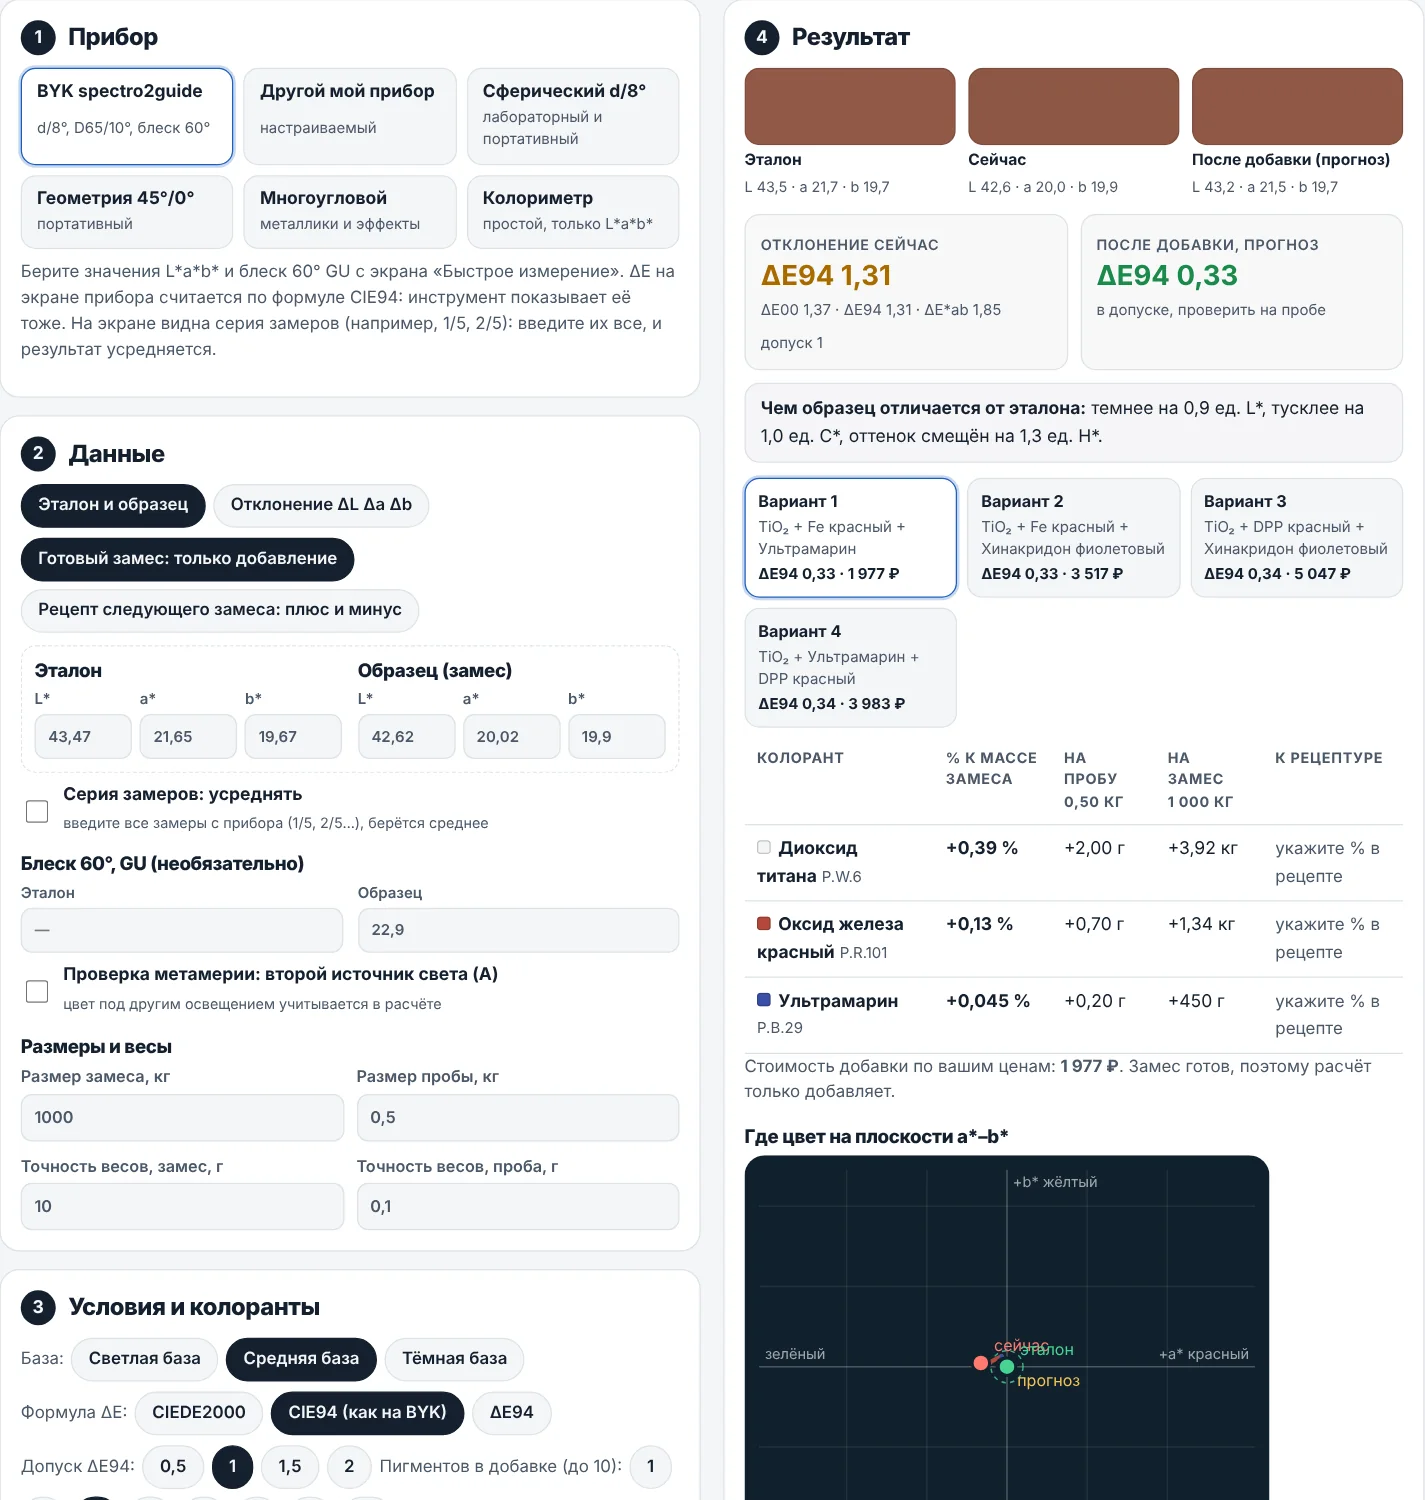
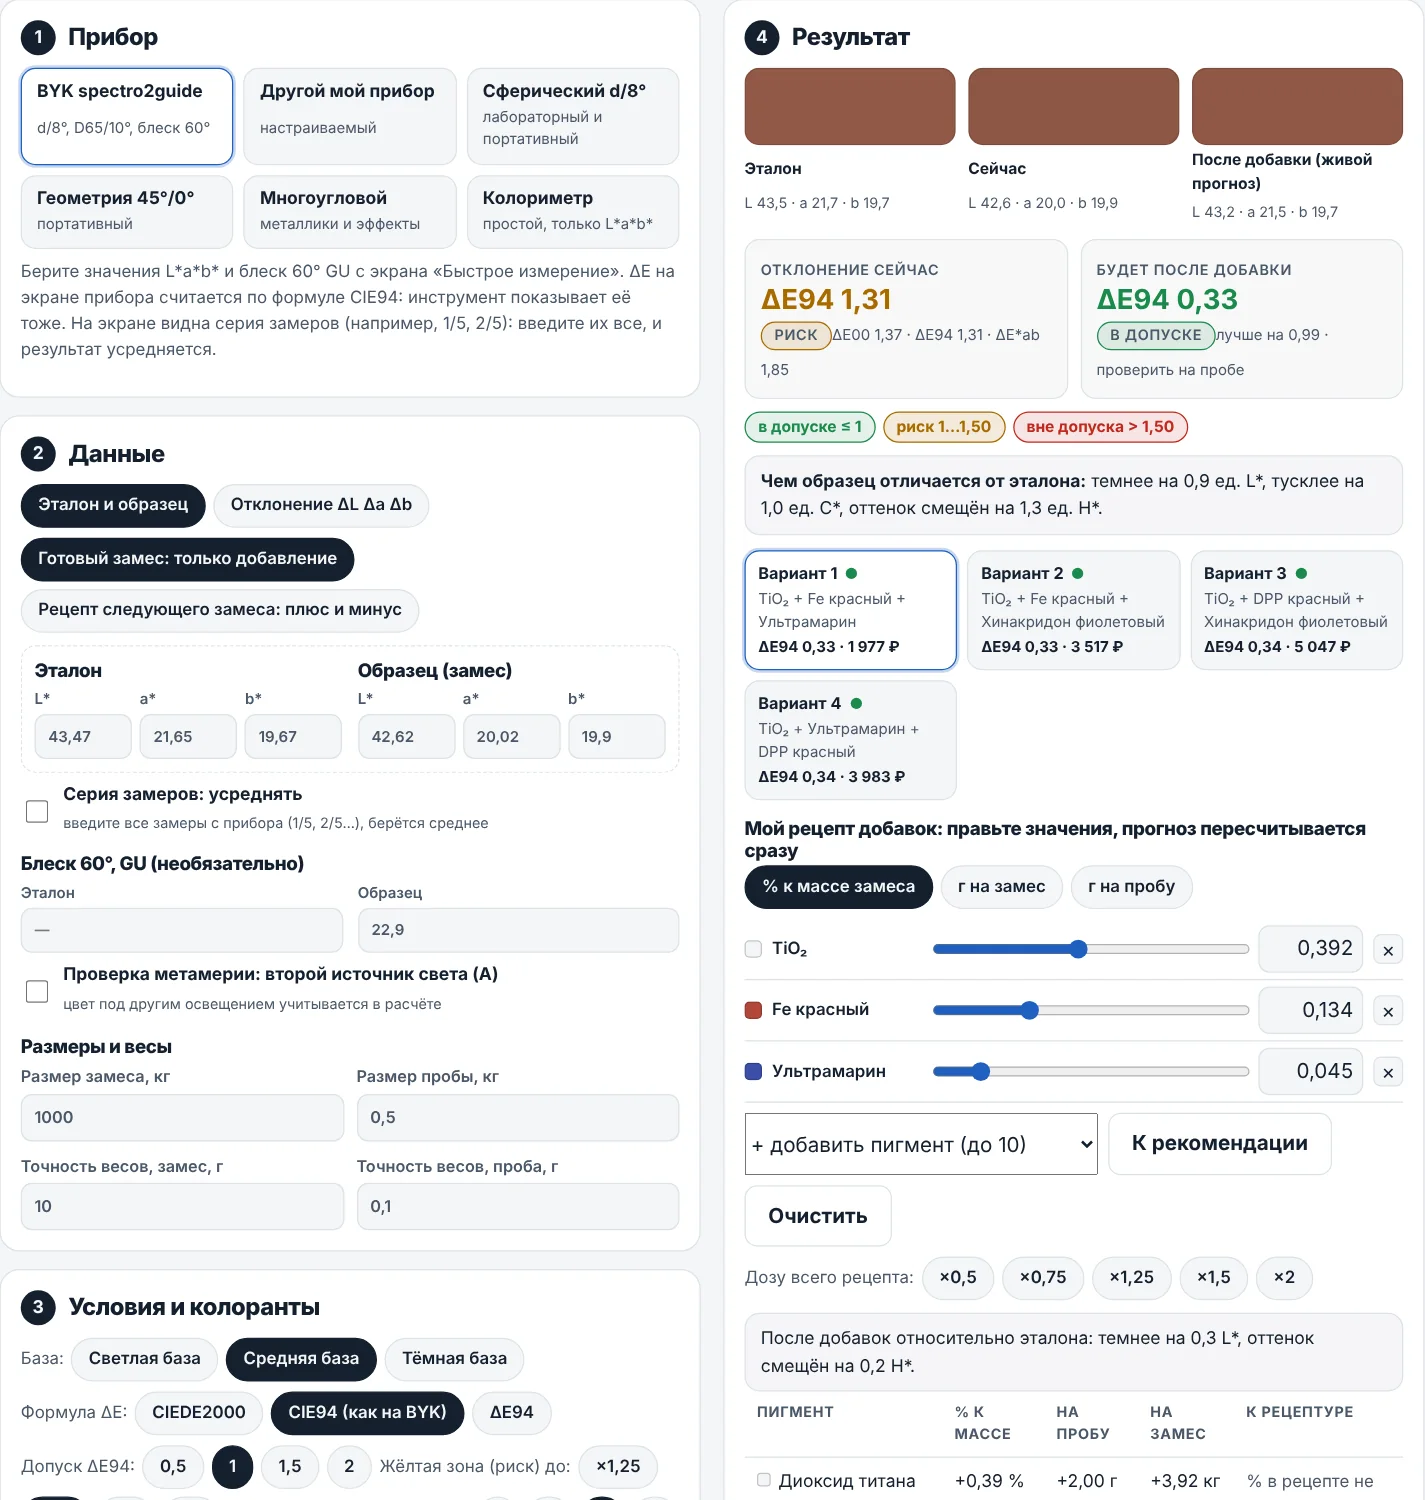
Add files via upload

diff --git a/correction/index.html b/correction/index.html
@@ -30,7 +30,7 @@ nav{display:flex;gap:16px;font-size:14px;align-items:center;flex-wrap:wrap}nav a
 .chips{display:flex;flex-wrap:wrap;gap:8px;margin-top:16px}.chips span{border:1px solid var(--line);background:var(--card);border-radius:999px;padding:5px 12px;font-size:13px;color:var(--ink2)}
 .step{display:flex;gap:10px;align-items:center;margin:0 0 10px}.step b{width:28px;height:28px;border-radius:50%;background:var(--ink);color:var(--paper);display:grid;place-items:center;font-size:14px;flex:none}.step h3{margin:0}
 .panel{background:var(--card);border:1px solid var(--line);border-radius:16px;padding:16px}
-.layout{display:grid;grid-template-columns:minmax(0,1fr) minmax(0,1fr);gap:18px;margin-top:18px;align-items:start}@media(max-width:960px){.layout{grid-template-columns:1fr}}
+.layout{display:grid;grid-template-columns:minmax(0,1fr) minmax(0,1fr);gap:18px;margin-top:18px;align-items:start}@media(max-width:960px){.layout{grid-template-columns:minmax(0,1fr)}}
 .stack{display:grid;gap:14px}
 .insts{display:grid;grid-template-columns:repeat(auto-fill,minmax(150px,1fr));gap:8px}
 .ic{text-align:left;border:1px solid var(--line);background:var(--paper);border-radius:12px;padding:10px 12px;display:grid;gap:2px}.ic b{font-size:14px;line-height:1.2}.ic span{font-size:12px;color:var(--ink2)}.ic.on{border-color:var(--b);box-shadow:0 0 0 2px color-mix(in srgb,var(--b) 25%,transparent);background:var(--card)}
@@ -69,6 +69,14 @@ footer{padding:44px 0 56px;border-top:1px solid var(--line)}
 body.pp>*:not(main){display:none!important}body.pp main>section:not(#protoS){display:none!important}body.pp #protoS{display:block!important;border:0}body.pp .act{display:none}
 @media print{body:not(.pp) header.top{display:none}}
 .plgrid{display:grid;grid-template-columns:repeat(auto-fill,minmax(210px,1fr));gap:8px;margin:12px 0}.plr{display:grid;grid-template-columns:16px 1fr 82px;gap:8px;align-items:center;font-size:13.5px;border:1px solid var(--line);border-radius:10px;padding:6px 8px;background:var(--paper)}.plr i{width:14px;height:14px;border-radius:4px;border:1px solid #0003}.plr input{padding:5px 7px}
+.zb{display:inline-block;border-radius:999px;padding:2px 10px;font-size:12.5px;font-weight:700;border:1px solid}.z-ok{color:var(--ok);border-color:var(--ok);background:color-mix(in srgb,var(--ok) 12%,transparent)}.z-warn{color:var(--warn);border-color:var(--warn);background:color-mix(in srgb,var(--warn) 14%,transparent)}.z-bad{color:var(--bad);border-color:var(--bad);background:color-mix(in srgb,var(--bad) 12%,transparent)}
+.zt-ok{color:var(--ok)}.zt-warn{color:var(--warn)}.zt-bad{color:var(--bad)}.zlegend{display:flex;gap:6px;flex-wrap:wrap;margin-top:10px}.kpi .zb{margin:2px 0}
+.zd{display:inline-block;width:9px;height:9px;border-radius:50%;margin-left:4px}.zd.z-ok{background:var(--ok)}.zd.z-warn{background:#e29a12}.zd.z-bad{background:var(--bad)}
+.lr{display:grid;grid-template-columns:14px 118px 1fr 84px 24px;gap:8px;align-items:center;padding:5px 0;border-bottom:1px solid var(--line)}@media(max-width:560px){.lr{grid-template-columns:14px 1fr 84px 24px}.lr input[type=range]{grid-column:1/-1;order:5}}
+.lr i{width:14px;height:14px;border-radius:4px;border:1px solid #0003}.lr .ln{font-size:13.5px;font-weight:600}.lr input[type=range]{width:100%;accent-color:var(--b)}.lr .lv{padding:5px 7px;text-align:right}.lx{border:1px solid var(--line);background:var(--paper);border-radius:6px;width:24px;height:24px;line-height:1;padding:0}
+.pbar{display:flex;justify-content:space-between;align-items:center;gap:8px;flex-wrap:wrap;margin:16px 0 6px}.plotw svg{width:100%;height:auto;display:block;border-radius:14px}.plotw{user-select:none}.doseb svg{width:100%;height:auto;display:block}
+select{max-width:100%}
+.stack,.panel{min-width:0}.xw{max-width:100%;overflow-x:auto}.panel .tab{min-width:0}#calTab .tab{min-width:420px}#proto{max-width:100%;overflow-x:auto}.tab.pt{min-width:0}.tab.pt td,.tab.pt th{padding:6px 8px}.insts{grid-template-columns:repeat(auto-fill,minmax(min(150px,100%),1fr))}
 </style>
 </head>
 <body>
@@ -81,7 +89,7 @@ body.pp>*:not(main){display:none!important}body.pp main>section:not(#protoS){dis
   <h1>Коррекция цвета: <span>что и сколько добавить</span></h1>
   <p class="lead" style="margin-top:12px">Введите значения со спектрофотометра (L*a*b* эталона и образца или готовое отклонение), размер замеса или пробы и, если нужно, содержание пигмента в рецептуре. Инструмент подберёт добавки, предложит несколько вариантов с ценой и покажет прогноз. После добавки введите новый замер, и модель сама уточнится под ваш замес. Замес уже сделан, поэтому по умолчанию расчёт только добавляет.</p>
   <div class="chips"><span>профиль BYK spectro2guide и ещё 5 типов приборов</span><span>до 10 пигментов в добавке</span><span>серия замеров и блеск</span><span>CIEDE2000</span><span>самообучение по итерациям</span><span>варианты с ценой</span><span>метамерия</span><span>протокол и история</span><span>данные только в браузере</span></div>
-  <div class="act"><button class="btn" data-demo="0" type="button">Пример с прибора: красный</button><button class="btn ghost" data-demo="1" type="button">Пример: большое отклонение</button><button class="btn ghost" data-demo="2" type="button">Пример: синий</button><a class="btn ghost" href="#how">Как правильно замерить</a></div><div class="tabs"><a href="#tool">Расчёт</a><a href="#plan">Свои добавки</a><a href="#iter">Итерации</a><a href="#histS">История</a><a href="#calS">Калибровка</a><a href="#protoS">Протокол</a></div>
+  <div class="act"><button class="btn" data-demo="0" type="button">Пример с прибора: красный</button><button class="btn ghost" data-demo="1" type="button">Пример: большое отклонение</button><button class="btn ghost" data-demo="2" type="button">Пример: синий</button><a class="btn ghost" href="#how">Как правильно замерить</a></div><div class="tabs"><a href="#tool">Расчёт</a><a href="#iter">Итерации</a><a href="#histS">История</a><a href="#calS">Калибровка</a><a href="#protoS">Протокол</a></div>
 </div></section>
 
 <section id="tool"><div class="wrap">
@@ -94,9 +102,6 @@ body.pp>*:not(main){display:none!important}body.pp main>section:not(#protoS){dis
     <div class="stack" style="position:sticky;top:70px"><div class="panel"><div class="step"><b>4</b><h3>Результат</h3></div><div id="res"></div></div></div>
   </div>
 </div></section>
-
-<section id="plan"><div class="wrap"><h2>Свои добавки: что будет, если добавить моё</h2><p class="lead">Введите, сколько какого пигмента вы планируете добавить (в %, граммах на замес или граммах на пробу). Инструмент сразу покажет прогноз цвета, ΔE, отличие от эталона и стоимость. Если до допуска не хватает, предложит, что добавить ещё. Можно взять за основу рекомендацию расчёта и поправить её.</p>
-<div class="layout" style="margin-top:14px"><div class="panel"><div class="step"><b>A</b><h3>Мой план добавок</h3></div><div id="planBox"></div></div><div class="panel"><div class="step"><b>B</b><h3>Прогноз</h3></div><div id="planOut"></div></div></div></div></section>
 
 <section id="iter"><div class="wrap"><h2>Итерации: добавили, замерили, модель уточнилась</h2><p class="lead">Нажмите «Применить как шаг» в результате, добавьте колоранты в замес и введите новый замер. Инструмент сравнит прогноз с фактом, уточнит чувствительности использованных колорантов и сразу пересчитает следующий шаг. Так коррекция сходится за меньшее число шагов.</p><div class="panel" style="margin-top:14px"><div id="steps"></div></div></div></section>
 

diff --git a/index.html b/index.html
@@ -842,7 +842,7 @@ body.pm main>section.cur{display:block}
     <figure class="shot" style="margin-top:22px"><a href="correction/index.html"><img src="img/system/color-correction-tool.webp" alt="Инструмент коррекции цвета: выбор прибора, данные, колоранты, варианты добавок с ценой и прогноз" loading="lazy"></a><figcaption>Скриншот инструмента: прибор, данные, варианты добавок с ценой, прогноз и карта a*–b*</figcaption></figure>
     <div class="eq-lists">
       <div class="box"><h3>Приборы и данные</h3><ul><li>профиль BYK spectro2guide: L*a*b* и блеск 60° с экрана, серия замеров с усреднением, ΔE по CIE94 как на приборе</li><li>другой ваш прибор, сферический d/8° (SCI и SCE), 45°/0°, многоугловой, колориметр</li><li>эталон и образец или готовое отклонение ΔL Δa Δb</li><li>проверка метамерии под вторым источником света</li><li>профили базы: светлая, средняя, тёмная</li></ul></div>
-      <div class="box"><h3>Что считает</h3><ul><li>ΔE по CIEDE2000 и ΔE76, разбор по светлоте, насыщенности и оттенку</li><li>до 4 вариантов добавки с ценой, до 10 пигментов в одной добавке</li><li>«Свои добавки»: вводите, сколько и чего планируете добавить, и видите прогноз цвета и ΔE</li><li>% к массе замеса, граммы на пробу и килограммы на замес с учётом точности весов</li><li>% к количеству пигмента в рецептуре</li><li>нелинейная модель для больших добавок</li></ul></div>
+      <div class="box"><h3>Что считает</h3><ul><li>ΔE по CIEDE2000 и ΔE76, разбор по светлоте, насыщенности и оттенку</li><li>до 4 вариантов добавки с ценой, до 10 пигментов в одной добавке</li><li>живой прогноз: правите дозы пигментов ползунком или числом, и сразу видите отклонение, зону и карту цвета</li><li>зоны допуска: в допуске, риск, вне допуска</li><li>карта цвета со шкалой, приближением и ΔL*</li><li>% к массе замеса, граммы на пробу и килограммы на замес с учётом точности весов</li><li>% к количеству пигмента в рецептуре</li><li>нелинейная модель для больших добавок</li></ul></div>
       <div class="box"><h3>Итерации и память</h3><ul><li>после шага вводите замер: чувствительности колорантов уточняются</li><li>свои колоранты, цены и калибровка по пробным добавкам</li><li>история коррекций и аналитика: шаги, попадание в допуск, частые колоранты</li><li>протокол для печати, выгрузка CSV и перенос данных между устройствами</li></ul></div>
     </div>
     <a class="cta" href="correction/index.html">Открыть инструмент</a>

diff --git a/sw.js b/sw.js
@@ -1,5 +1,5 @@
 /* Сервис-воркер: офлайн для сайта, агента, программы и демо. Версию кэша менять при каждой публикации. */
-const VER = 'cik-v5';
+const VER = 'cik-v6';
 const CORE = ["./", "agent/agent-core.js", "agent/agent-ui.js", "agent/index.html", "agent/team.js", "correction/correction.js", "correction/index.html", "demo/color/assets/favicon.svg", "demo/color/css/style.css", "demo/color/data/example-measurements.json", "demo/color/index.html", "demo/color/js/app.js", "demo/color/js/colorants.js", "demo/color/js/dosing.js", "demo/color/js/history.js", "demo/color/js/lab.js", "demo/color/js/llm.js", "demo/color/js/model.js", "demo/color/js/nn.js", "demo/color/js/planner.js", "demo/color/js/plot.js", "demo/color/js/ral-data.js", "demo/color/js/version.js", "demo/color/package.json", "demo/css/app.css", "demo/index.html", "demo/js/app.js", "demo/js/capacity.js", "demo/js/chem.js", "demo/js/core.js", "demo/js/equip.js", "demo/js/ops.js", "demo/js/vision-frames.js", "demo/js/vision.js", "icons/apple-touch-icon.png", "icons/icon-192.png", "icons/icon-512.png", "icons/maskable-512.png", "index.html", "manifest.webmanifest", "program/index.html", "program/program.js", "pwa.js"];
 const PAGE_FALLBACK = 'index.html';
 
